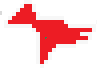
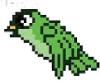
Alteração de sprites
fiz alteração das sprites dos cactus, localizada na pasta assets, todos os modelos foram ajustado na classe Cactus, tambem foi feita a mudança da sprite do bird, trocando o modelo do mesmo

diff --git a/dino_runner/components/powerups/power_up.py b/dino_runner/components/powerups/power_up.py
@@ -8,8 +8,8 @@ class PowerUp(Sprite):
         self.image = image
         self.type = type
         self.rect = self.image.get_rect()
-        self.rect.x = SCREEN_WIDTH + random.randint(600, 800)
-        self.rect.y = random.randint(120, 170)
+        self.rect.x = SCREEN_WIDTH + random.randint(800, 1000)
+        self.rect.y = random.randint(300, 400)
         self.start_time = 0 
         self.duration = random.randint(5, 10)
     

diff --git a/dino_runner/components/obstacles/obstacle_manager.py b/dino_runner/components/obstacles/obstacle_manager.py
@@ -23,7 +23,7 @@ class ObstacleManager:
             if game.player.dino_rect.colliderect(obstacle.rect):
                 
                 if not game.player.has_power_up:
-                    Music.musi_death(self)
+                    Music.music_death()
                     pygame.time.delay(500)
                     game.playing = False
                     game.death_count += 1

diff --git a/dino_runner/components/sound.py b/dino_runner/components/sound.py
@@ -22,7 +22,7 @@ class Music:
         jump = pygame.mixer.Sound(JUMP_SOUND)
         jump.play()
 
-    def musi_death(self):
+    def music_death():
         death = pygame.mixer.Sound(DEATH_SOUND)
         death.play()
         

diff --git a/dino_runner/components/obstacles/cactus.py b/dino_runner/components/obstacles/cactus.py
@@ -7,7 +7,7 @@ from dino_runner.components.obstacles.obstacle import Obstacle
 class Cactus(Obstacle):
 
     CACTUS = [
-        (LARGE_CACTUS, 300),
+        (LARGE_CACTUS, 310),
         (SMALL_CACTUS, 325),
     ]
 
